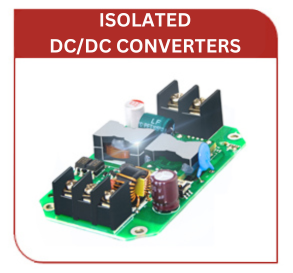
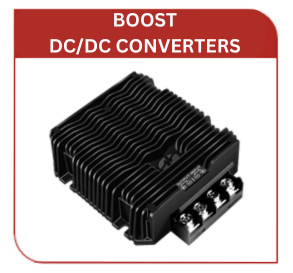
Completed Products Page and Folder Structure for Product Category Pages

diff --git a/app/products/page.js b/app/products/page.js
@@ -1,6 +1,80 @@
+import Header from "../components/header";
+import Footer from "../components/footer";
+import Link from "next/link";
+
 function Page() {
+  let products = [
+    {
+      name: "Isolated DC-DC Converters",
+      description: "DC-DC Converters which will convert source DC into a variety of output voltages at power levels to suit your requirements. This series is a complete line of highly efficient 1-360 Watt isolated DC-DC converter, suitable for applications requiring galvanic isolation between the input and the output. ",
+      image: "/Products/product1.jpg",
+      link: "/products/isolated-dc-dc-convertors"
+    },
+    {
+      name: "Buck DC-DC Converters",
+      description: "A complete line of high quality DC/DC converters in a compact housing. This series is eminently suitable for applications requiring stability, a modest development of heat. These products are also distinguished by high efficiency, together with absolute safety. Models are available with output current capability ranging from 1 Amps to 150 Amps.",
+      image: "/Products/product2.jpg",
+      link: "/products/buck-dc-dc-convertors"
+    },
+    {
+      name: "Boost DC-DC Converters",
+      description: "This highly efficient switch mode step-up DC-DC power converters which raise the input DC voltage level to a higher value. These are housed in a metal case which can easily be mounted directly to (or near) your equipment. Models are available with output current capability ranging from 1 Amps to 50 Amps.",
+      image: "/Products/product3.jpg",
+      link: "/products/boost-dc-dc-convertors"
+    },
+    {
+      name: "Boost-Buck DC-DC Converters",
+      description: "Output power ranges from 12W to 500W. The buck-boost DC-DC converter offers a greater level of capability than the buck converter of boost converter individually. High power 12V to 12V, and 24V to 24V DC/DC buck-boost converters at low cost. Suitable for voltage stabilization of automobile electronics, special purpose UPS, etc. ",
+      image: "/Products/product4.jpg",
+      link: "/products/boost-buck-convertors"
+    },
+    {
+      name: "DC-DC Battery Chargers",
+      description: "The DC-DC Battery Charger was developed for the purpose of charging and maintaining any auxiliary battery in an installation where the starting battery is used as the supply source. It has been designed for use in 4WDs, RVs, buses, coaches, caravans, campers or any dual battery system.",
+      image: "/Products/product5.jpg",
+      link: "/products/dc-dc-battery-chargers"
+    },
+    {
+      name: "AC-DC Waterproof Lithium Chargers",
+      description: "This unit is made of aluminum alloy, waterproof, and ready to charge right out of the box. This charger runs with the global standard wide 90-265VAC voltage input. Charge your 12V/ 24V/ 36V/48V Lithium, LiFePo4, Li Batteries in the most efficient way possible. Plug and Play with all of your lithium batteries.",
+      image: "/Products/product6.jpg",
+      link: "/products/ac-dc-battery-chargers"
+    }
+  ]
+
   return (
-    <div>Products Page</div>
+    <>
+      <header>
+        <Header />
+      </header>
+
+      <main>
+        <section className="hero">
+          <img src="/hero-1.png" alt="Hero" className="w-full h-100 object-cover" />
+        </section>
+
+        <section>
+          <h1 className="text-8xl text-center mt-5">PRODUCTS</h1>
+        </section>
+
+        <section className="grid grid-cols-3 gap-4 py-5 px-10 justify-items-center my-5">
+          {products.map((product, index) => (
+            <section key={index} className="border-1 border-black rounded-lg p-5 flex flex-col h-full">
+              <section className="flex-1 flex flex-col">
+                <img src={product.image} alt={product.name} className="w-full object-cover rounded-lg mb-4" />
+                <h1 className="text-3xl font-semibold pb-2">{product.name}</h1>
+                <p className="text-xl font-medium">{product.description}</p>
+              </section>
+              <Link href={product.link} target="_blank"><button className="text-xl font-medium text-center bg-black text-white px-5 py-3 rounded-xl cursor-pointer mt-4 w-full self-end">View More</button></Link>
+            </section>
+          ))}
+        </section>
+      </main>
+
+      <footer>
+        <Footer/>
+      </footer>
+    </>
   )
 }
 

diff --git a/app/page.js b/app/page.js
@@ -3,7 +3,17 @@ import Header from "./components/header";
 import Footer from "./components/footer";
 
 export default function Home() {
-  let products = [ {image: "/1.png"},{image: "/2.png"},{image: "/3.png"},{image: "/4.png"},{image: "/5.png"},{image: "/6.png"},{image: "/7.png"},{image: "/8.png"},{image: "/9.png"}]
+  let products = [
+    { image: "/1.png", link: "/products/isolated-dc-dc-convertors" },
+    { image: "/2.png", link: "/products/boost-buck-convertors" },
+    { image: "/3.png", link: "/products/buck-dc-dc-convertors" },
+    { image: "/4.png", link: "/products/boost-dc-dc-convertors" },
+    { image: "/5.png", link: "/products/ac-dc-power-supplies" },
+    { image: "/6.png", link: "/products/ac-dc-battery-chargers" },
+    { image: "/7.png", link: "/products/dc-dc-battery-chargers" },
+    { image: "/8.png", link: "/products/cables" },
+    { image: "/9.png", link: "/products/antennas" }
+  ];
   
   return (
     <>
@@ -19,10 +29,10 @@ export default function Home() {
         <section>
           <h1 className="text-center text-9xl font-medium">Our Products</h1>
 
-          <section className="grid grid-cols-3 gap-4 p-10 justify-items-center">
+          <section className="grid grid-cols-3 gap-3 p-10 justify-items-center">
             {products.map((product, index) => (
               <section key={index}>
-                <img src={product.image} alt={`Product ${index + 1}`} />
+                <Link href={product.link} target="_blank"><img src={product.image} alt={`Product ${index + 1}`}/></Link>
               </section>
             ))}
           </section>

diff --git a/app/layout.js b/app/layout.js
@@ -1,20 +1,40 @@
-import { Geist, Geist_Mono } from "next/font/google";
 import "./globals.css";
 
-const geistSans = Geist({
-  variable: "--font-geist-sans",
-  subsets: ["latin"],
-});
-
-const geistMono = Geist_Mono({
-  variable: "--font-geist-mono",
-  subsets: ["latin"],
-});
-
 export const metadata = {
-  title: "Science Group",
-  description: "Science Group",
-};
+  title: "Science Group - Power Solutions & Communication Modules",
+  description: "Your partner in reliable power products and communication solutions with high R&D quality.",
+  keywords: [
+    "DC/DC converters",
+    "isolated modules",
+    "power solutions",
+    "communication modules",
+    "Science Group",
+    "power electronics",
+    "embedded systems",
+    "industrial automation",
+    "energy management",
+    "custom power supplies",
+    "signal integrity",
+    "high efficiency",
+    "low noise",
+    "telecommunications",
+    "IoT",
+    "R&D",
+    "PCB design",
+    "modular power",
+    "battery management",
+    "voltage regulation",
+    "current monitoring",
+    "industrial communication",
+    "data acquisition",
+    "reliable power",
+    "electronic design",
+    "engineering services",
+    "product development",
+    "innovation",
+    "technology solutions"
+  ],
+}
 
 export default function RootLayout({ children }) {
   return (

diff --git a/app/products/isolated-dc-dc-convertors/page.js b/app/products/isolated-dc-dc-convertors/page.js
@@ -1,0 +1,7 @@
+function Page() {
+  return (
+    <div>DC-DC Converters</div>
+  )
+}
+
+export default Page

diff --git a/app/products/ac-dc-battery-chargers/page.js b/app/products/ac-dc-battery-chargers/page.js
@@ -1,0 +1,7 @@
+function Page() {
+  return (
+    <div>Page</div>
+  )
+}
+
+export default Page

diff --git a/app/products/ac-dc-power-supplies/page.js b/app/products/ac-dc-power-supplies/page.js
@@ -1,0 +1,7 @@
+function Page() {
+  return (
+    <div>Page</div>
+  )
+}
+
+export default Page

diff --git a/app/products/antennas/page.js b/app/products/antennas/page.js
@@ -1,0 +1,7 @@
+function Page() {
+  return (
+    <div>Page</div>
+  )
+}
+
+export default Page

diff --git a/app/products/boost-buck-convertors/page.js b/app/products/boost-buck-convertors/page.js
@@ -1,0 +1,7 @@
+function Page() {
+  return (
+    <div>Page</div>
+  )
+}
+
+export default Page

diff --git a/app/products/boost-dc-dc-convertors/page.js b/app/products/boost-dc-dc-convertors/page.js
@@ -1,0 +1,7 @@
+function Page() {
+  return (
+    <div>Page</div>
+  )
+}
+
+export default Page

diff --git a/app/products/buck-dc-dc-convertors/page.js b/app/products/buck-dc-dc-convertors/page.js
@@ -1,0 +1,7 @@
+function Page() {
+  return (
+    <div>Page</div>
+  )
+}
+
+export default Page

diff --git a/app/products/cables/page.js b/app/products/cables/page.js
@@ -1,0 +1,7 @@
+function Page() {
+  return (
+    <div>Page</div>
+  )
+}
+
+export default Page

diff --git a/app/products/dc-dc-battery-chargers/page.js b/app/products/dc-dc-battery-chargers/page.js
@@ -1,0 +1,7 @@
+function Page() {
+  return (
+    <div>Page</div>
+  )
+}
+
+export default Page
